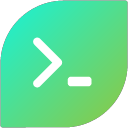
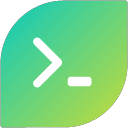
release: v0.1.0 — первый публичный релиз
- feat(session): модалка имени новой сессии (создать/переименовать),
  пустое имя → авто-название от сервера
- fix(qml): убрана кнопка «+» с обложки (создание только из списка сессий)
- docs(readme): пометка о старте миграции на opencode v2
- build(icon): обновлённые иконки + Release 8

diff --git a/opencode-client/qml/harbour-opencode.qml b/opencode-client/qml/harbour-opencode.qml
@@ -1063,10 +1063,32 @@ ApplicationWindow {
         return Math.round(b / 1024) + " KB"
     }
 
-    function newSession() {
+    function newSession(title) {
         app.messages = []
-        bridge.new_session()
+        bridge.new_session(title ? title : "")
         app.requestPage(2)
+    }
+
+    // Ask for a session name before creating one. Skipping the dialog (or
+    // accepting with an empty field) creates the session with a server-generated
+    // title, exactly like before.
+    function openNewSessionDialog() {
+        if (app.pageStack && app.pageStack.currentPage !== null)
+            app.pageStack.push(sessionNameDialog, { mode: "new" })
+        else
+            newSession()
+    }
+
+    // Rename an existing session (same dialog, "rename" mode).
+    function openRenameSessionDialog(id, title) {
+        if (app.pageStack && app.pageStack.currentPage !== null)
+            app.pageStack.push(sessionNameDialog, {
+                mode: "rename",
+                sessionId: id,
+                currentTitle: title
+            })
+        else
+            renameSession(id, title)
     }
 
     function openSession(id) {
@@ -1723,15 +1745,7 @@ ApplicationWindow {
             }
 
             CoverActionList {
-                // "＋": create a new session and open it.
-                CoverAction {
-                    iconSource: "image://theme/icon-m-add"
-                    onTriggered: {
-                        app.activate()
-                        app.newSession()
-                    }
-                }
-                // Second action — the icon follows what the user needs most:
+                // Single action — the icon follows what the user needs most:
                 // while TTS is active → stop (silences playback WITHOUT pulling
                 // the app to the foreground); otherwise by input mode:
                 // text-only → pen (opens the app, focuses the prompt input);
@@ -1753,6 +1767,59 @@ ApplicationWindow {
                         else
                             app.startQuickDictation()
                     }
+                }
+            }
+        }
+    }
+
+    // Session-name dialog, shared by "create new session" and "rename session"
+    // (same purpose — naming a session). In "new" mode accepting with an empty
+    // field (or swiping the dialog away) still creates the session; the server
+    // then generates the title automatically.
+    Component {
+        id: sessionNameDialog
+        Dialog {
+            id: nameDlg
+            property string mode: "new"
+            property string sessionId
+            property string currentTitle
+            readonly property string acceptLabel: mode === "new" ? qsTr("Create")
+                                                                 : qsTr("Rename")
+
+            canAccept: mode === "new" || titleField.text.trim().length > 0
+            onAccepted: {
+                if (mode === "new")
+                    app.newSession(titleField.text.trim())
+                else
+                    app.renameSession(sessionId, titleField.text.trim())
+            }
+            onStatusChanged: {
+                if (status === PageStatus.Active) {
+                    titleField.forceActiveFocus()
+                }
+            }
+
+            Column {
+                width: parent.width
+
+                DialogHeader {
+                    acceptText: nameDlg.acceptLabel
+                    title: nameDlg.mode === "new" ? qsTr("New session")
+                                                  : qsTr("Session name")
+                }
+                TextField {
+                    id: titleField
+                    width: parent.width
+                    label: nameDlg.mode === "new" ? qsTr("Session name (optional)")
+                                                  : qsTr("Session name")
+                    placeholderText: nameDlg.mode === "new"
+                                     ? qsTr("Leave empty to name automatically")
+                                     : ""
+                    text: nameDlg.currentTitle ? nameDlg.currentTitle : ""
+                    inputMethodHints: Qt.ImhNoPredictiveText
+                    EnterKey.enabled: nameDlg.canAccept
+                    EnterKey.iconSource: "image://theme/icon-m-enter-accept"
+                    EnterKey.onClicked: nameDlg.accept()
                 }
             }
         }

diff --git a/opencode-client/qml/pages/SessionsPage.qml b/opencode-client/qml/pages/SessionsPage.qml
@@ -37,10 +37,7 @@ Item {
                 }
                 MenuItem {
                     text: qsTr("Rename")
-                    onClicked: appWindow.pageStack.push(renameDialog, {
-                        sessionId: modelData.id,
-                        currentTitle: modelData.title
-                    })
+                    onClicked: appWindow.openRenameSessionDialog(modelData.id, modelData.title)
                 }
                 MenuItem {
                     text: qsTr("Delete")
@@ -71,7 +68,7 @@ Item {
             }
             MenuItem {
                 text: qsTr("New session")
-                onClicked: appWindow.newSession()
+                onClicked: appWindow.openNewSessionDialog()
             }
         }
 
@@ -86,41 +83,5 @@ Item {
 
     RemorsePopup {
         id: remorse
-    }
-
-    Component {
-        id: renameDialog
-
-        Dialog {
-            id: dlg
-            property string sessionId
-            property string currentTitle
-
-            canAccept: titleField.text.trim().length > 0
-            onAccepted: appWindow.renameSession(sessionId, titleField.text.trim())
-            onStatusChanged: {
-                if (status === PageStatus.Active) {
-                    titleField.forceActiveFocus()
-                }
-            }
-
-            Column {
-                width: parent.width
-
-                DialogHeader {
-                    acceptText: qsTr("Rename")
-                }
-                TextField {
-                    id: titleField
-                    width: parent.width
-                    label: qsTr("Session name")
-                    text: dlg.currentTitle
-                    inputMethodHints: Qt.ImhNoPredictiveText
-                    EnterKey.enabled: text.trim().length > 0
-                    EnterKey.iconSource: "image://theme/icon-m-enter-accept"
-                    EnterKey.onClicked: dlg.accept()
-                }
-            }
-        }
     }
 }

diff --git a/opencode-client/src/main.rs b/opencode-client/src/main.rs
@@ -713,7 +713,7 @@ async fn run_stream(
                         }
                     };
                     match &command {
-                        Cmd::New => match client.create_session().await {
+                        Cmd::New { title } => match client.create_session(title.as_deref()).await {
                             Ok(sess) => match sess["id"].as_str() {
                                 Some(id) => {
                                     log::info!("new session: {id}");
@@ -1119,7 +1119,7 @@ async fn run_stream(
                             }
                             refresh_sessions(&client, &sessions).await;
                             // After deleting all sessions, immediately create a new one — the chat must not be empty.
-                            match client.create_session().await {
+                            match client.create_session(None).await {
                                 Ok(sess) => match sess["id"].as_str() {
                                     Some(id) => {
                                         log::info!("delete_all: creating new session {id}");
@@ -1254,7 +1254,7 @@ async fn run_stream(
                     set_status(&status, "busy");
                     // Create a session if there is none.
                     if current_session.is_none() {
-                        match client.create_session().await {
+                        match client.create_session(None).await {
                             Ok(sess) => match sess["id"].as_str() {
                                 Some(id) => {
                                     current_session = Some(id.to_string());
@@ -1736,7 +1736,7 @@ async fn resume_last_session(
     // No last session (first run or after deleting all) — create a new one.
     let sid = match resume_id {
         Some(id) => id,
-        None => match client.create_session().await {
+        None => match client.create_session(None).await {
             Ok(sess) => match sess["id"].as_str() {
                 Some(id) => {
                     log::info!("создаю новую сессию: {id}");

diff --git a/opencode-client/src/bridge/app.rs b/opencode-client/src/bridge/app.rs
@@ -129,10 +129,13 @@ pub struct AppBridge {
         let v = self.sessions_shared.lock().map(|s| s.clone()).unwrap_or_default();
         QString::from(v)
     }),
-    /// QML: create a new session.
-    new_session: qt_method!(fn new_session(&self) {
-        log::info!("QML new_session");
-        self.push_command(Cmd::New.to_value());
+    /// QML: create a new session. `title` is optional — an empty string lets
+    /// the server generate the session title automatically.
+    new_session: qt_method!(fn new_session(&self, title: QString) {
+        let title = title.to_string();
+        log::info!("QML new_session title={title:?}");
+        let title = if title.trim().is_empty() { None } else { Some(title) };
+        self.push_command(Cmd::New { title }.to_value());
     }),
     /// QML: open a session by id (loads the history).
     open_session: qt_method!(fn open_session(&self, id: QString) {

diff --git a/opencode-client/src/api/session.rs b/opencode-client/src/api/session.rs
@@ -20,10 +20,18 @@ pub enum PromptPart {
 
 impl OpenCodeClient {
     /// POST /session -> create a new session.
-    pub async fn create_session(&self) -> Result<serde_json::Value, String> {
+    ///
+    /// `title` is optional (`Session.CreateInput.title`): when absent/empty the
+    /// server generates the session title itself.
+    pub async fn create_session(&self, title: Option<&str>) -> Result<serde_json::Value, String> {
         let url = format!("{}/session", self.base);
+        let body = match title {
+            Some(t) if !t.trim().is_empty() => serde_json::json!({ "title": t.trim() }),
+            _ => serde_json::json!({}),
+        };
         let resp = self
             .authed(self.http.post(&url))
+            .json(&body)
             .send()
             .await
             .map_err(|e| e.to_string())?;

diff --git a/opencode-client/src/cmd.rs b/opencode-client/src/cmd.rs
@@ -19,7 +19,12 @@ use crate::types::event::PermissionReplyKind;
 #[derive(Debug, Clone, Serialize, Deserialize)]
 #[serde(tag = "cmd", rename_all = "snake_case")]
 pub enum Cmd {
-    New,
+    /// Create a new session. `title` is optional: when absent/empty the server
+    /// generates the session title automatically.
+    New {
+        #[serde(default, skip_serializing_if = "Option::is_none")]
+        title: Option<String>,
+    },
     Open {
         id: String,
     },

diff --git a/vault/План.md b/vault/План.md
@@ -187,6 +187,15 @@ opencode serve  (на телефоне или LAN)
 
 **Открытые мелочи:** revert при занятом агенте — прятать меню/баннер (сделано: меню отключено при `busy`); после отправки нового промпта сбрасывать `reverted` (сделано в QML `send()`).
 
+## К возможным следующим обновлениям
+Идеи, отложенные на потом (не задачи «в работе»). Решение Jack (2026-10-18): записать, пока не реализуем.
+
+- **Имя новой сессии при создании (модалка с полем ввода).** Сейчас pull-down «New session» (`SessionsPage.qml:72-75`) создаёт сессию без имени. Хотим при создании сразу спрашивать название — `Dialog` из `Sailfish.Silica` (свайп вправо = ОК, влево = отмена; тот же паттерн, что `renameDialog` в `SessionsPage.qml:91-125`).
+  - API уже готов: сервер 1.19.0 принимает `title` прямо в `POST /session` (`Session.CreateInput.title`), т.е. create+rename не нужен — достаточно тела `{"title": ...}`.
+  - Правки по слоям (образцы уже есть): (1) `SessionsPage.qml` — копия `renameDialog` → `newSessionDialog`, пункт меню открывает её, `onAccepted: appWindow.newSession(title)`; (2) `harbour-opencode.qml` — `newSession(title)` → `bridge.new_session(title)`; (3) `bridge/app.rs` — `new_session` с опциональным `QString` → `Cmd::New { title }` (`#[serde(default)]`, чтобы не трогать прочие вызовы); (4) `api/session.rs` — `create_session(title)`, тело `{"title"}` если непусто; (5) `main.rs` — прокинуть title в `Cmd::New`.
+  - Грабли: меню и кнопка «＋» (`harbour-opencode.qml:1731`) создают сессию по-разному; `DeleteAll`/resume тоже зовут `Cmd::New` (не ломать — опциональный title со дефолтом). Пустое имя — разрешить создать безымянную (сервер сам озаглавит по первому сообщению). Вопросы «где спрашивать» (только меню vs и «＋») и «пустое имя» — **решаются при реализации**.
+  - Мелкая, ~60 строк, низкий риск (паттерн и API уже есть).
+
 ## Связанное
 - [[Xperia-10-IV-Sailfish]]
 - [[Rust-LLM-Sailfish-App]]

diff --git a/README.md b/README.md
@@ -13,6 +13,11 @@ Built and tested on a Sony Xperia 10 IV running Sailfish OS 5.1.0.11 (aarch64).
 > **Compatibility (for now):** aarch64 devices only, built for **Sailfish OS 5.1**.
 > Other architectures are not built yet.
 
+> **Roadmap:** work has started on migrating this client to the new **opencode v2**
+> server API (new HTTP contract, event stream and message model). Development is
+> happening in parallel and is not yet part of this release — the current build
+> targets opencode v1. See the migration notes under `vault/`.
+
 ## Screenshots
 
 <table>
